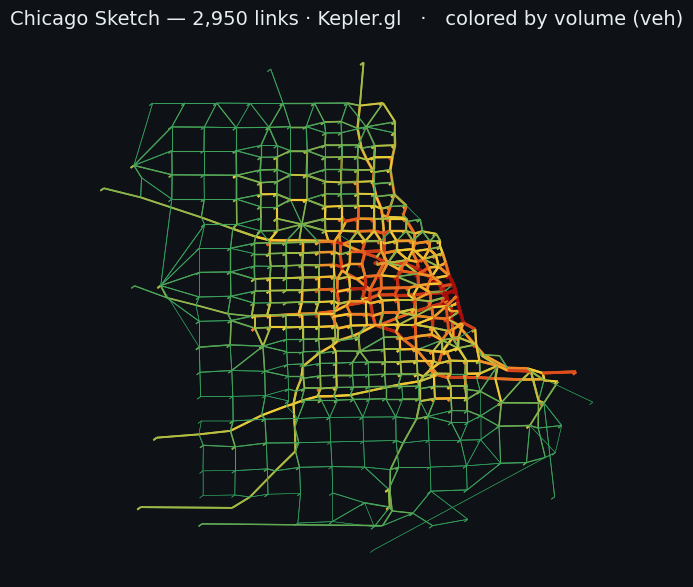
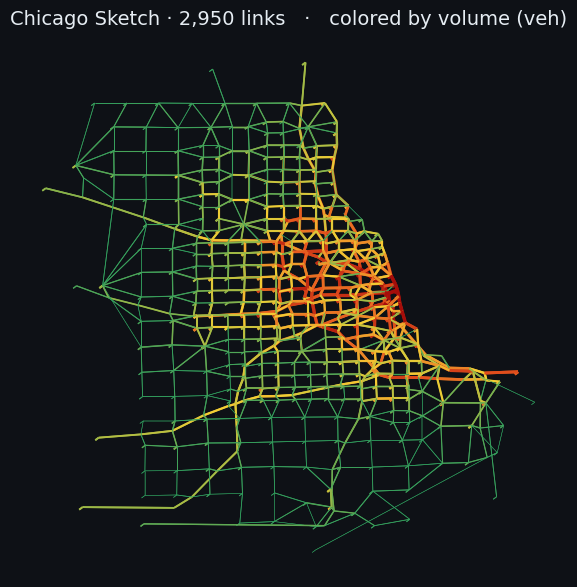
ARC live in Kepler (reprojected) + Google Earth KML for every demo
- kepler_demo.py: reproject projected coords to lon/lat via crs.txt (--crs), --top N to keep the highest-
  volume links so big networks load live, and also emit gmns.kml (Google Earth) + a deck.gl page per demo.
- ARC Atlanta: reprojected EPSG:2240 -> lon/lat, top 6,000 by volume -> live Kepler map + deck.gl + KML
  (docs/portal_demo/arc/). The I-285 loop + I-75/85/20 spokes render on the real map.
- Chicago: added gmns.kml (Google Earth) alongside its live Kepler map.
- landing "See it" + portals guide: both demos now link Kepler.gl (live) · deck.gl · Google Earth (KML) · files.

No file >5 MB; privacy validator clean.

Changed region(s): [[0.0936, 0.092, 0.9047, 0.9506], [0.0, 0.0, 0.9983, 0.0613]]

diff --git a/docs/portal_demo/arc/deckgl/index.html b/docs/portal_demo/arc/deckgl/index.html
@@ -1,0 +1,21 @@
+<!DOCTYPE html><html><head><meta charset="utf-8"><title>deck.gl — gui4gmns export</title>
+<script src="https://unpkg.com/deck.gl@latest/dist.min.js"></script>
+<style>body{margin:0}#c{position:absolute;inset:0}</style></head><body><div id="c"></div>
+<script>
+// NOTE: this standalone deck.gl page loads deck.gl from a CDN (needs internet) — it is an EXPORT to an
+// external tool, not the self-contained gui4gmns dashboard. Add/remove layers below freely.
+fetch('data.json').then(r=>r.json()).then(D=>{
+ const {DeckGL,PathLayer,TripsLayer,ArcLayer}=deck;
+ let t=0;const T=Math.max(1,...D.trips.flatMap(x=>x.timestamps.length?[x.timestamps[x.timestamps.length-1]]:[0]));
+ const deckgl=new DeckGL({container:'c',mapStyle:null,
+  initialViewState:{longitude:-83.81503,latitude:34.27286,zoom:11,pitch:45,bearing:0},controller:true,
+  layers:[]});
+ function render(){t=(t+30)%T;deckgl.setProps({layers:[
+   new PathLayer({id:'net',data:D.paths,getPath:d=>d.path,getColor:d=>d.color,getWidth:d=>d.width,widthMinPixels:1}),
+   new ArcLayer({id:'od',data:D.arcs,getSourcePosition:d=>d.source,getTargetPosition:d=>d.target,
+     getSourceColor:[80,160,255],getTargetColor:[255,140,80],getWidth:1}),
+   new TripsLayer({id:'trips',data:D.trips,getPath:d=>d.path,getTimestamps:d=>d.timestamps,
+     getColor:[87,217,140],opacity:0.9,widthMinPixels:2,trailLength:180,currentTime:t})]});
+   requestAnimationFrame(render);}
+ render();});
+</script></body></html>

diff --git a/docs/index.html b/docs/index.html
@@ -62,15 +62,20 @@
   <div class="shots">
     <figure>
       <a href="https://kepler.gl/demo?mapUrl=https://asu-trans-ai-lab.github.io/gui4gmns/portal_demo/kepler/map.kepler.json" target="_blank"><img src="portal_demo/kepler/preview.png" alt="Chicago Sketch network colored by volume"></a>
-      <figcaption><b>Chicago Sketch</b> — 2,950 links, colored by volume.
-        <a href="https://kepler.gl/demo?mapUrl=https://asu-trans-ai-lab.github.io/gui4gmns/portal_demo/kepler/map.kepler.json" target="_blank">▶ open live in Kepler.gl</a> ·
+      <figcaption><b>Chicago Sketch</b> — 2,950 links, colored by volume.<br>
+        <a href="https://kepler.gl/demo?mapUrl=https://asu-trans-ai-lab.github.io/gui4gmns/portal_demo/kepler/map.kepler.json" target="_blank">▶ Kepler.gl</a> ·
         <a href="portal_demo/">deck.gl</a> ·
-        <a href="https://github.com/asu-trans-ai-lab/gui4gmns/tree/main/docs/portal_demo/kepler">download files</a></figcaption>
+        <a href="portal_demo/kepler/gmns.kml">Google Earth (KML)</a> ·
+        <a href="https://github.com/asu-trans-ai-lab/gui4gmns/tree/main/docs/portal_demo/kepler">files</a></figcaption>
     </figure>
     <figure>
-      <img src="portal_demo/kepler/arc_preview.png" alt="ARC Atlanta regional network, 145,971 links, colored by volume">
-      <figcaption><b>ARC Atlanta regional</b> — 145,971 links, colored by volume. The freeway spokes
-        (I-75/85/20 + the I-285 perimeter) load red out of downtown. Generated the same way, from one folder.</figcaption>
+      <a href="https://kepler.gl/demo?mapUrl=https://asu-trans-ai-lab.github.io/gui4gmns/portal_demo/arc/map.kepler.json" target="_blank"><img src="portal_demo/kepler/arc_preview.png" alt="ARC Atlanta regional network colored by volume"></a>
+      <figcaption><b>ARC Atlanta regional</b> — 145,971 links; the I-285 loop + I-75/85/20 spokes load red.
+        (Live map = top 6,000 by volume, for speed.)<br>
+        <a href="https://kepler.gl/demo?mapUrl=https://asu-trans-ai-lab.github.io/gui4gmns/portal_demo/arc/map.kepler.json" target="_blank">▶ Kepler.gl</a> ·
+        <a href="portal_demo/arc/deckgl/">deck.gl</a> ·
+        <a href="portal_demo/arc/gmns.kml">Google Earth (KML)</a> ·
+        <a href="https://github.com/asu-trans-ai-lab/gui4gmns/tree/main/docs/portal_demo/arc">files</a></figcaption>
     </figure>
   </div>
 

diff --git a/renderers/kepler_demo.py b/renderers/kepler_demo.py
@@ -12,6 +12,17 @@ HERE = os.path.dirname(os.path.abspath(__file__))
 _spec = importlib.util.spec_from_file_location("gmns_to_viz", os.path.join(HERE, "..", "exporters", "gmns_to_viz.py"))
 gv = importlib.util.module_from_spec(_spec); _spec.loader.exec_module(gv)
 
+def reproject(D, epsg):
+    """Reproject link/OD/trip coords from a projected CRS (e.g. ARC EPSG:2240) to lon/lat for map portals."""
+    from pyproj import Transformer
+    tr = Transformer.from_crs(epsg, "EPSG:4326", always_xy=True)
+    for L in D["links"]:
+        L["poly"] = [tr.transform(x, y) for x, y in L["poly"]]
+    D["od"] = [(*tr.transform(o[0], o[1]), *tr.transform(o[2], o[3]), o[4]) for o in D["od"]]
+    D["trips"] = [[(*tr.transform(x, y), t) for x, y, t in trp] for trp in D["trips"]]
+    D["geo"] = True
+    return D
+
 def _metric(D):
     """Pick the field that actually varies: volume (network loading) if present, else free-flow speed.
     Returns (value_fn, label, hot_high) — hot_high=True means high value = red (busy)."""
@@ -79,14 +90,28 @@ def main():
     src = a[0]; label = a[1] if len(a) > 1 and not a[1].startswith("-") else os.path.basename(src)
     out = a[a.index("-o") + 1] if "-o" in a else os.path.join(src, "kepler")
     zoom = float(a[a.index("--zoom") + 1]) if "--zoom" in a else 9.0
+    top = int(a[a.index("--top") + 1]) if "--top" in a else 0
     os.makedirs(out, exist_ok=True)
     D = gv.read_gmns(src, max_traj=300)
-    gv.export_kepler(D, out)
-    preview_png(D, os.path.join(out, "preview.png"), f"{label} — {len(D['links']):,} links · Kepler.gl")
-    if "--no-map" not in a:
+    # reproject projected coords (crs.txt or --crs) so map portals place the network correctly
+    epsg = a[a.index("--crs") + 1] if "--crs" in a else None
+    if not epsg and os.path.exists(os.path.join(src, "crs.txt")):
+        epsg = open(os.path.join(src, "crs.txt")).read().strip()
+    if epsg and not D["geo"]:
+        reproject(D, epsg); print(f"reprojected {epsg} -> lon/lat")
+    # for big networks, keep the top-N links by volume so the live map loads fast
+    if top and len(D["links"]) > top:
+        D["links"] = sorted(D["links"], key=lambda L: -L["vol"])[:top]
+        label = f"{label} — top {top:,} by volume"
+    gv.export_kepler(D, out)                                    # drag-drop geojson set
+    gv.export_kml(D, out)                                       # Google Earth KML
+    if "--no-deck" not in a:
+        gv.export_deckgl(D, os.path.join(out, "deckgl"))       # standalone deck.gl page
+    preview_png(D, os.path.join(out, "preview.png"), f"{label} · {len(D['links']):,} links")
+    if "--no-map" not in a and D["geo"]:
         json.dump(kepler_map(D, label, zoom), open(os.path.join(out, "map.kepler.json"), "w"))
-    mb = sum(os.path.getsize(os.path.join(out, f)) for f in os.listdir(out)) / 1e6
-    print(f"kepler demo -> {out}/  ({len(D['links']):,} links, geo={D['geo']}, {mb:.1f} MB total)")
+    mb = sum(os.path.getsize(os.path.join(out, f)) for f in os.listdir(out) if os.path.isfile(os.path.join(out, f))) / 1e6
+    print(f"portal demo -> {out}/  ({len(D['links']):,} links, geo={D['geo']}, {mb:.1f} MB)")
 
 if __name__ == "__main__":
     main()

diff --git a/docs/VISUALIZATION_PORTALS.md b/docs/VISUALIZATION_PORTALS.md
@@ -51,11 +51,18 @@ Two real networks, exported and rendered so you can *see* them before you click:
 ![ARC Atlanta regional in Kepler.gl](portal_demo/kepler/arc_preview.png)
 
 - **ARC Atlanta regional** (145,971 links) — the whole metro; the freeway spokes (I-75/85/20 + the I-285
-  perimeter) load red out of downtown. Same one-folder pipeline, just a bigger network.
+  perimeter) load red out of downtown. Reprojected from state-plane (EPSG:2240) to lon/lat and
+  **[▶ live in Kepler.gl](https://kepler.gl/demo?mapUrl=https://asu-trans-ai-lab.github.io/gui4gmns/portal_demo/arc/map.kepler.json)**
+  (top 6,000 links by volume, so it loads fast) · [deck.gl](https://asu-trans-ai-lab.github.io/gui4gmns/portal_demo/arc/deckgl/)
+  · [Google Earth KML](https://asu-trans-ai-lab.github.io/gui4gmns/portal_demo/arc/gmns.kml).
 
-Make one for any GMNS folder: `python renderers/kepler_demo.py <folder> "<label>" -o out/kepler` (writes a
-`map.kepler.json` for the live link, a `preview.png`, and the drag-drop files). **ITS I-95** renders
-identically — but its INRIX/VDOT data is restricted, so it stays **local only, never published**.
+Each demo also ships a **Google Earth `.kml`** (3D volume-extruded bars): open it in Google Earth Pro or
+import it at earth.google.com — [Chicago](https://asu-trans-ai-lab.github.io/gui4gmns/portal_demo/kepler/gmns.kml)
+· [ARC](https://asu-trans-ai-lab.github.io/gui4gmns/portal_demo/arc/gmns.kml).
+
+Make one for any GMNS folder: `python renderers/kepler_demo.py <folder> "<label>" -o out --top 6000`
+(reprojects via `crs.txt`, writes `map.kepler.json` for the live link, `preview.png`, `gmns.kml`, a deck.gl
+page, and the drag-drop files).
 
 ## Online *and* offline — the point
 